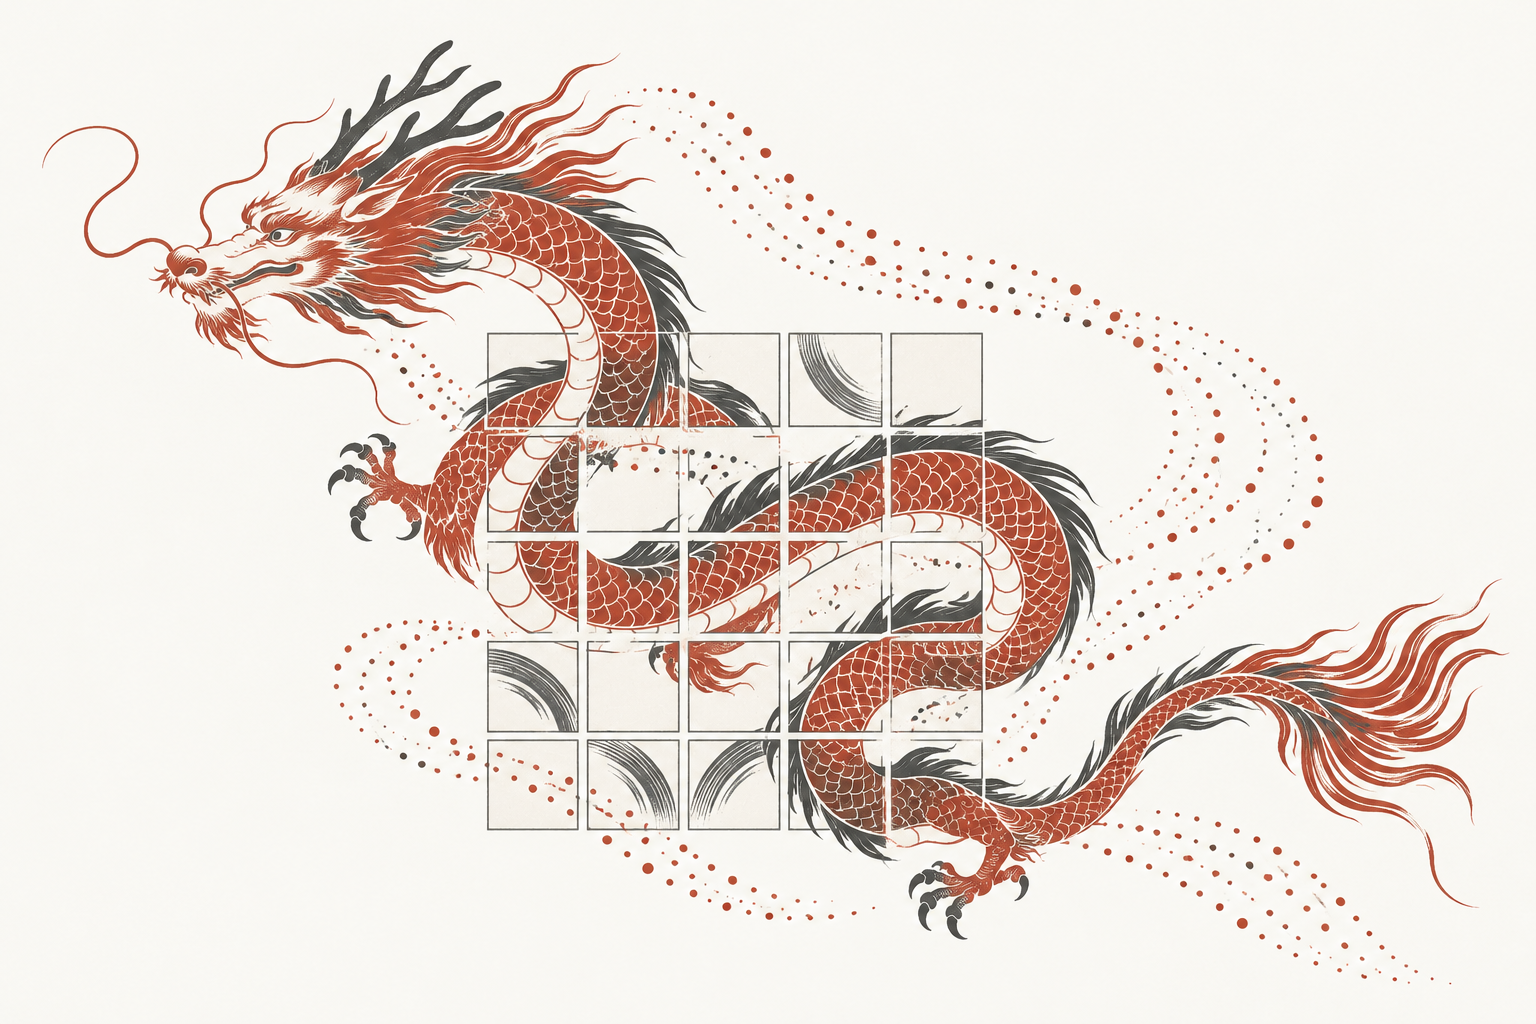
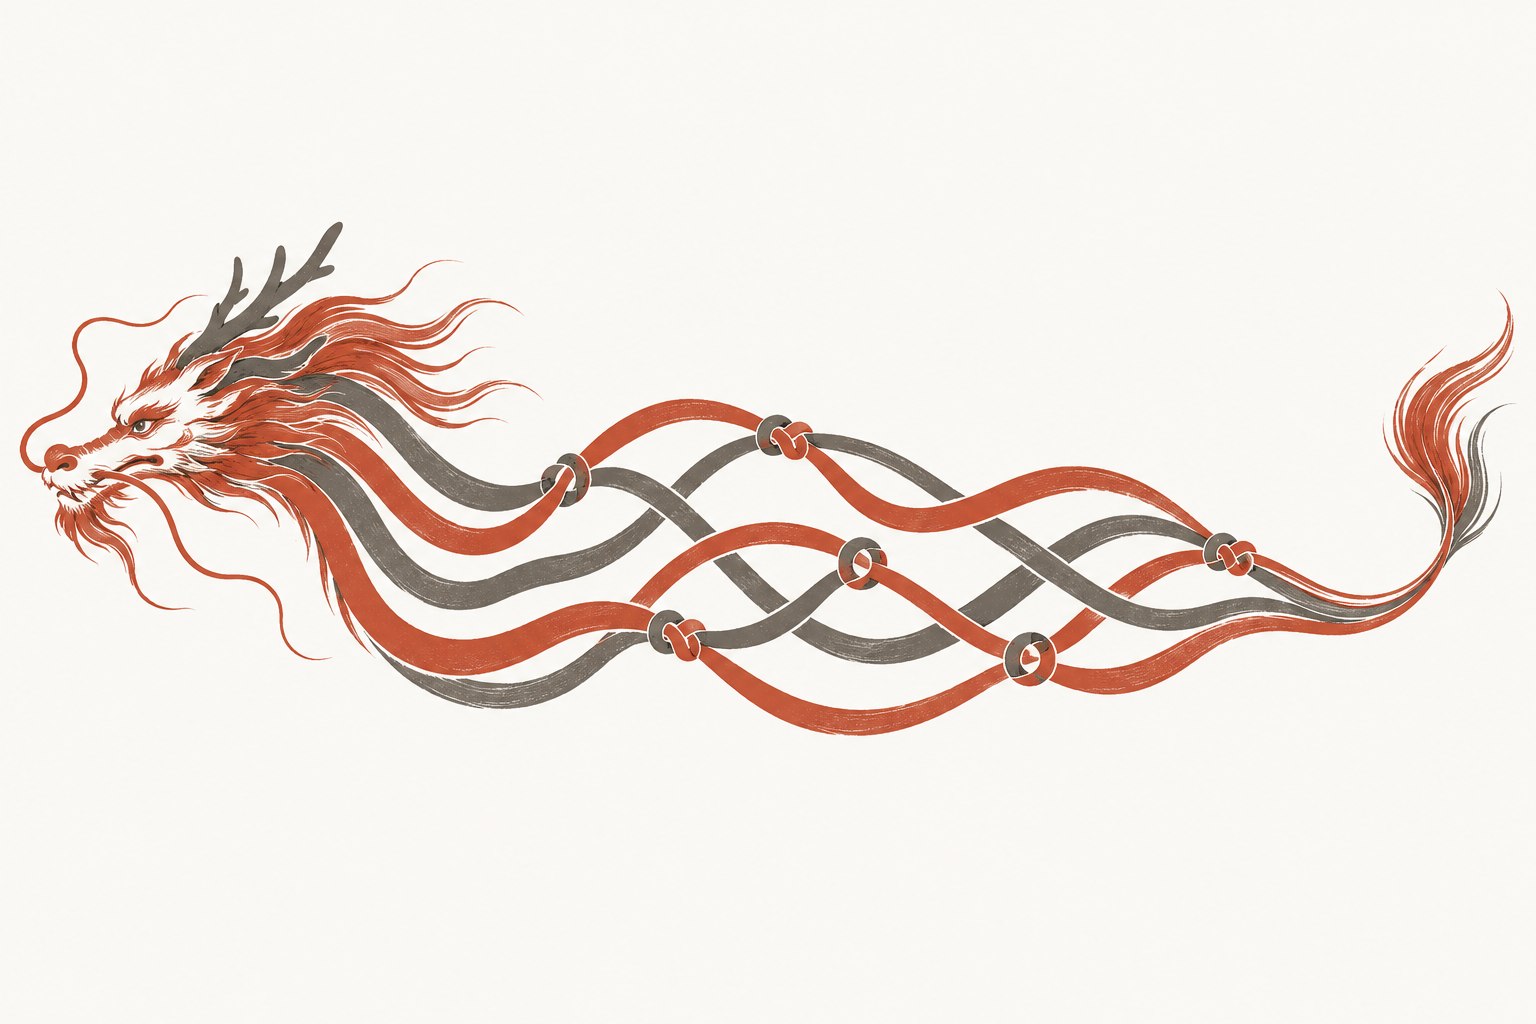
Redesign the Dragon hero illustration around the Update function
The 5x5 lane grid was not Dragon's most distinctive feature (any
Keccak-shaped permutation has one). The new illustration keeps the
Chinese dragon identity but renders its body as the five lanes of the
Update transformation: five ribbons braiding through each other, ring
motifs at crossings (rotations) and knot nodes where they merge
(modular additions). Same palette and style as before; QA-verified
(eastern dragon head, five braided strands, no text, no grid). Alt
text and captions updated in both languages.

diff --git a/dragon/index.html b/dragon/index.html
@@ -30,8 +30,8 @@
 </div>
 
 <figure class="hero">
-<img src="hero.png" alt="A Chinese serpentine dragon in terracotta red and ink gray, weaving through a 5×5 grid of lanes with trailing dot streams" width="1536" height="1024">
-<figcaption>Dragon — the Chinese dragon weaving through the 5×5 lane state of Dragon-p (illustration generated for this page, 2026-10-30)</figcaption>
+<img src="hero.png" alt="A Chinese dragon in terracotta red and ink gray whose body flows as five braiding ribbons with ring and knot motifs" width="1536" height="1024">
+<figcaption>Dragon — the Chinese dragon: its body flows as the five lanes of the <code>Update</code> transformation, braided by modular additions and rotations (illustration generated for this page, 2026-10-31)</figcaption>
 </figure>
 
 <h2>News</h2>

diff --git a/dragon/index.zh.html b/dragon/index.zh.html
@@ -30,8 +30,8 @@
 </div>
 
 <figure class="hero">
-<img src="hero.png" alt="赭红与墨灰的中国龙穿行于 5×5 lane 状态格之间，身后拖着点流" width="1536" height="1024">
-<figcaption>Dragon — 中国龙：龙身穿过 Dragon-p 的 5×5 lane 状态（本页配图，AI 生成于 2026-10-30）</figcaption>
+<img src="hero.png" alt="赭红与墨灰的中国龙，龙身化为五条交织的飘带，交叉处有环形与结点母题" width="1536" height="1024">
+<figcaption>Dragon — 中国龙：龙身化为 <code>Update</code> 的五条 lane，在模加与 rotation 中交织（本页配图，AI 生成于 2026-10-31）</figcaption>
 </figure>
 
 <p>Dragon 的核心是 <em>sponge-forward</em> 模式：sponge 的 capacity（inner）部分在每次置换前被保存、置换后

diff --git a/2026-10-31-log.md b/2026-10-31-log.md
@@ -160,3 +160,12 @@
 - 预期产出: 线上可访问。
 - 实际产出: 见上方 curl 输出。
 - 查看位置: Pages builds
+
+# Task: zacobilingual-terminology
+
+## [2026-10-31 11:50:15] Step 1: 哈希→杂凑 术语替换
+- 做了什么: 全站中文页替换 哈希族→杂凑家族 (8 处)、哈希→杂凑 (3 处), 无残留; 顺手把两个英文页的中文图注改为英文 (完成上轮纯英文化); README/NOTATION 无 "哈希" 不需改。
+- 全局作用: 中文页术语与国标口径 (杂凑) 一致。
+- 预期产出: 全站术语统一。
+- 实际产出: 替换完成, commit + push, Pages 重建, 线上验证含 "杂凑家族"。
+- 查看位置: https://hukaisdu.github.io/ngcc-dragon-thunder/index.zh.html
